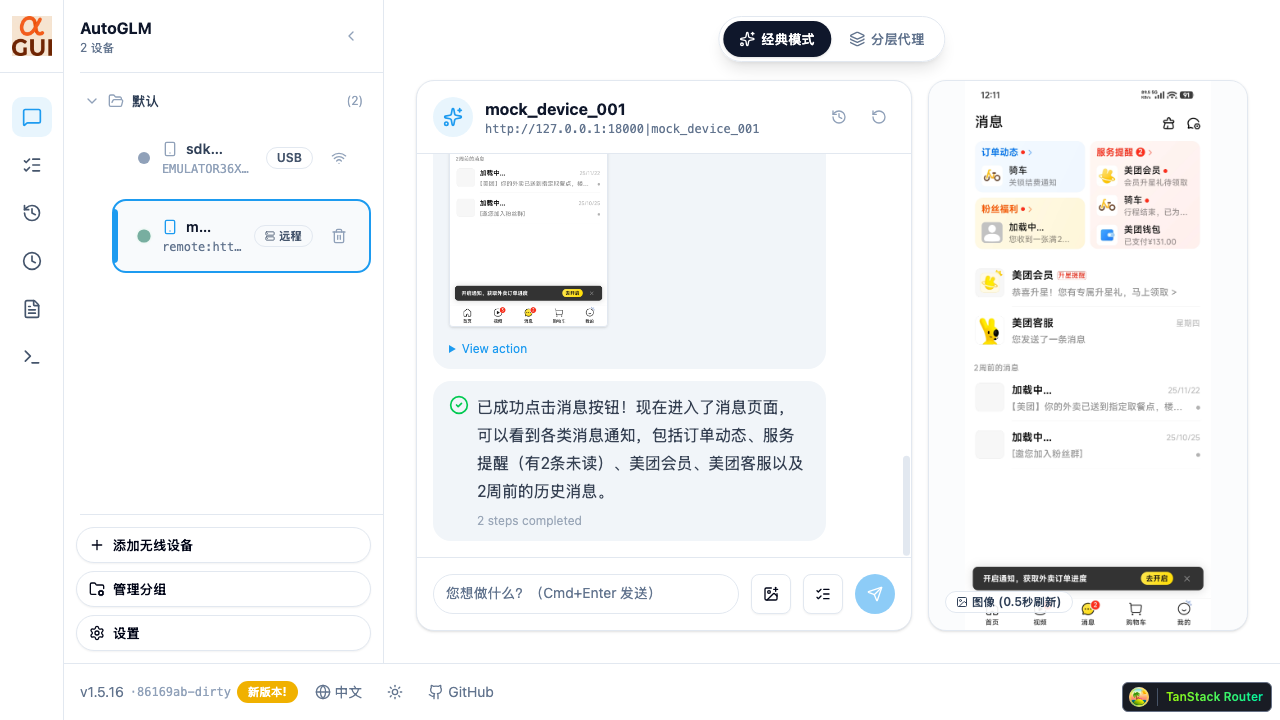
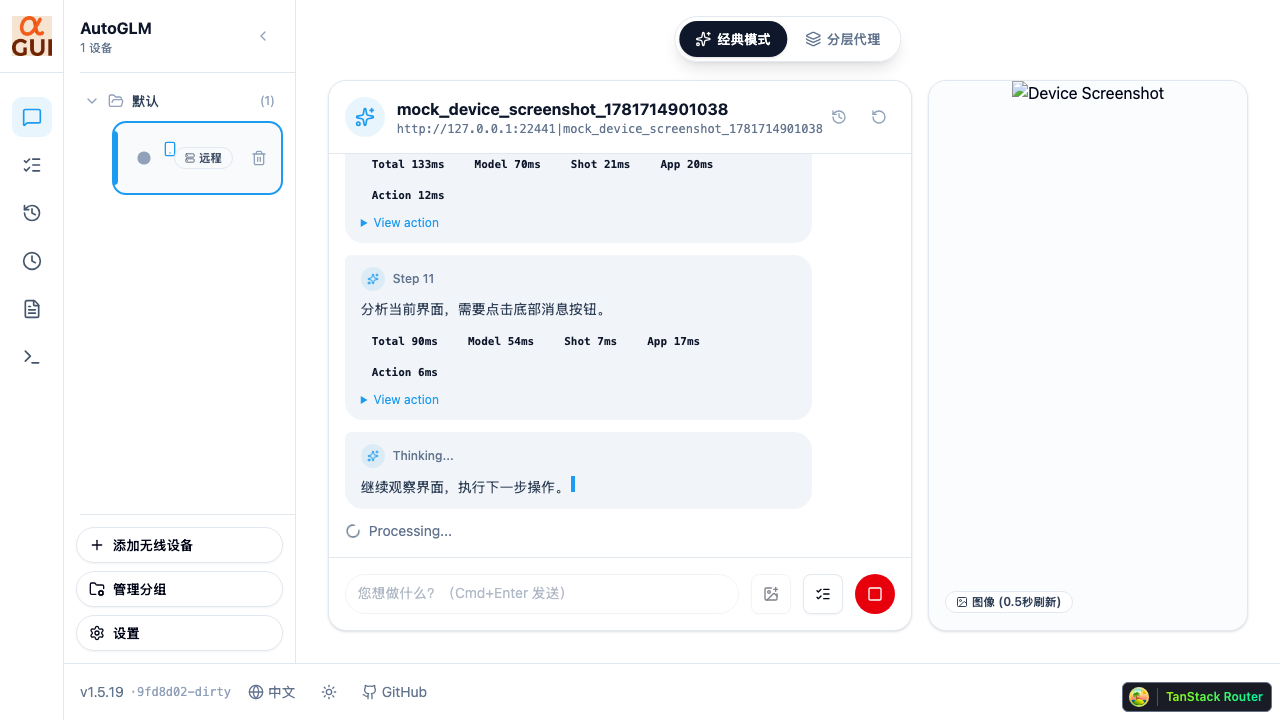
docs: fix REST API paths, re-render chat-running.png, add screenshot e2e spec
- Fix incorrect REST API endpoints in reference/rest-api.md:
  - POST /api/tasks -> POST /api/task-sessions/{session_id}/tasks
  - GET /api/devices/qr_pair/{session_id}/image -> GET /api/devices/qr_pair/status/{session_id}
- Add missing endpoints: task-sessions/{session_id}/tasks (GET), reset,
  discover_remote, video/reset, qr_pair cancel
- Re-render chat-running.png to show the running state with stop button
- Add frontend/e2e/docs-screenshots.spec.ts to regenerate chat-running.png

diff --git a/docs/docs/reference/rest-api.md b/docs/docs/reference/rest-api.md
@@ -34,7 +34,9 @@ sidebar_position: 3
 | --- | --- | --- |
 | POST | `/api/task-sessions` | 创建任务会话 |
 | GET | `/api/task-sessions/{session_id}` | 获取会话 |
-| POST | `/api/tasks` | 提交任务 |
+| POST | `/api/task-sessions/{session_id}/tasks` | 提交任务 |
+| GET | `/api/task-sessions/{session_id}/tasks` | 列出会话内的任务 |
+| POST | `/api/task-sessions/{session_id}/reset` | 重置会话 |
 | GET | `/api/tasks` | 列出任务 |
 | GET | `/api/tasks/{task_id}` | 任务详情 |
 | GET | `/api/tasks/{task_id}/events` | 任务事件列表 |
@@ -49,8 +51,10 @@ sidebar_position: 3
 | GET | `/api/devices/discover_mdns` | mDNS 发现 |
 | POST | `/api/devices/connect_wifi` · `/disconnect_wifi` · `/pair_wifi` | WiFi 连接 / 断开 / 配对 |
 | POST | `/api/devices/qr_pair/generate` | 生成二维码配对会话 |
-| GET | `/api/devices/qr_pair/{session_id}/image` | 获取配对二维码图片 |
+| GET | `/api/devices/qr_pair/status/{session_id}` | 获取配对状态 |
+| DELETE | `/api/devices/qr_pair/{session_id}` | 取消配对会话 |
 | POST | `/api/devices/add_remote` · `/remove_remote` | 添加 / 移除远程设备 |
+| POST | `/api/devices/discover_remote` | 发现远程服务器上的设备 |
 | GET/PUT | `/api/devices/{serial}/name` | 获取 / 设置设备名 |
 
 ## 设备分组
@@ -69,6 +73,7 @@ sidebar_position: 3
 | POST | `/api/control/tap` · `/swipe` | 点击 / 滑动 |
 | POST | `/api/control/touch/down` · `/move` · `/up` | 原始触摸事件 |
 | POST | `/api/screenshot` | 截图 |
+| POST | `/api/video/reset` | 重置视频流 |
 
 ## Workflow
 
